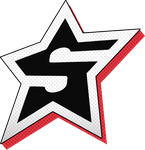
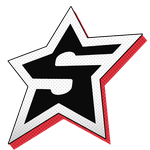
Nav: star centered in its ring, and the ring seated on the bar's inner edge

Changed region(s): [[0.0, 0.0, 1.0, 1.0], [0.4966, 0.7467, 0.5517, 0.7733], [0.4966, 0.2133, 0.5241, 0.2667]]

diff --git a/site/sw.js b/site/sw.js
@@ -44,7 +44,7 @@ self.addEventListener("notificationclick", function (e) {
    with ?v= on the address and is always read from the network, so a saved
    copy can never hold an update back. Pictures, fonts and icons are kept;
    prices, marks and every function are always asked of the site. */
-var SHELL = "stacked-shell-v1", STATIC = "stacked-static-v6";
+var SHELL = "stacked-shell-v1", STATIC = "stacked-static-v7";
 self.addEventListener("fetch", function (e) {
   var req = e.request, url = new URL(req.url);
   if (req.method !== "GET" || url.origin !== self.location.origin) return;

diff --git a/src/33-app-4.js b/src/33-app-4.js
@@ -1288,7 +1288,7 @@
     var r = t.getBoundingClientRect(), b = sbar.getBoundingClientRect();
     var w = size ? size.w : (spmark.offsetWidth || 57);
     spmark.style.transform =
-      "translateX(" + (r.left - b.left + (r.width - w) / 2) + "px)";
+      "translateX(" + (r.left - b.left - sbar.clientLeft + (r.width - w) / 2) + "px)";
   }
   function markNow() {
     seatMark(sbar.querySelector('.sptab[aria-selected="true"]') ||
